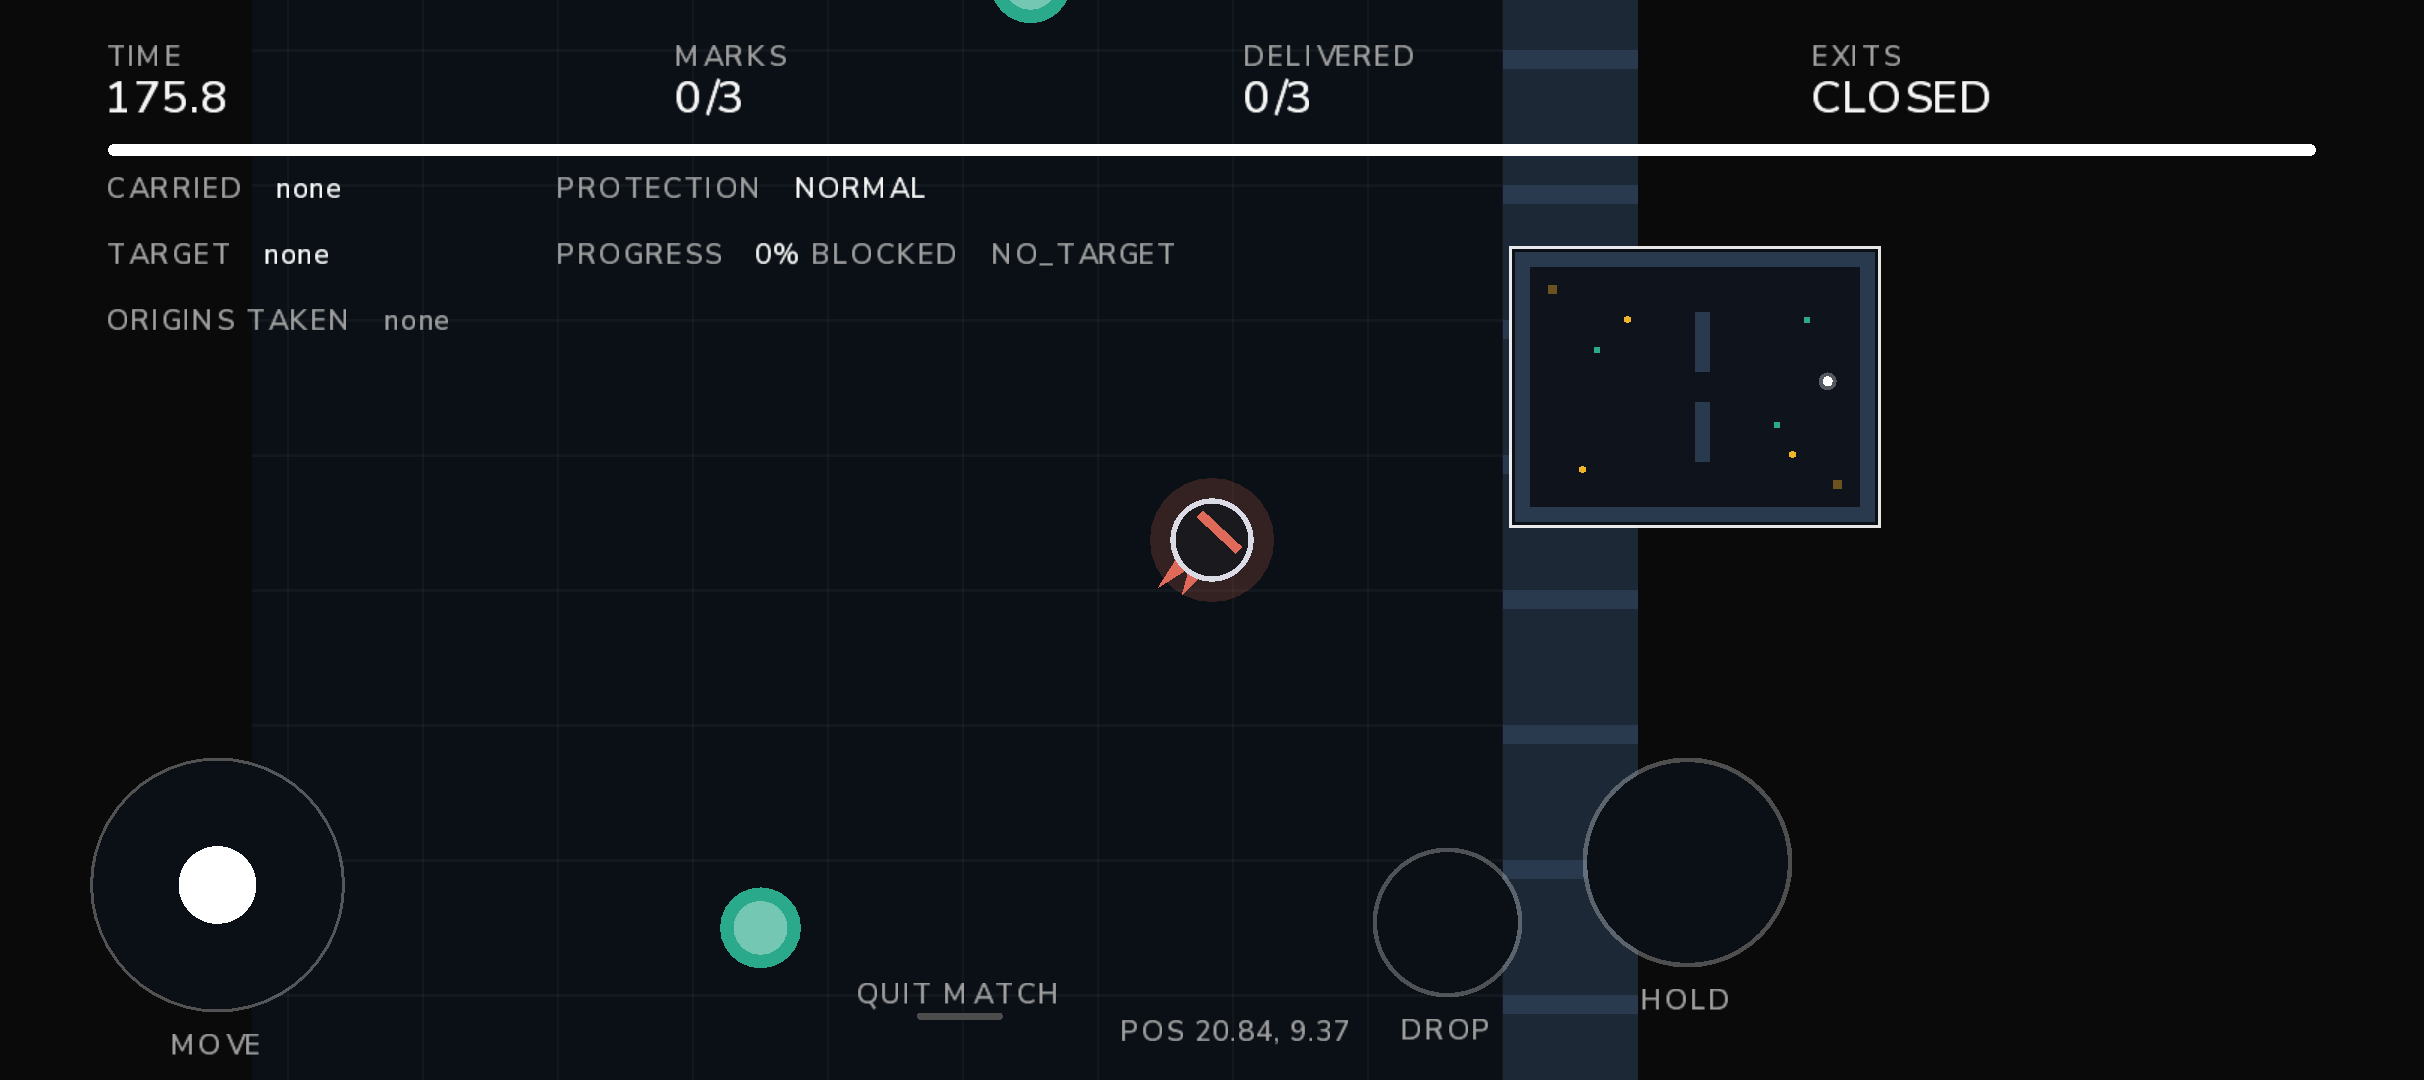
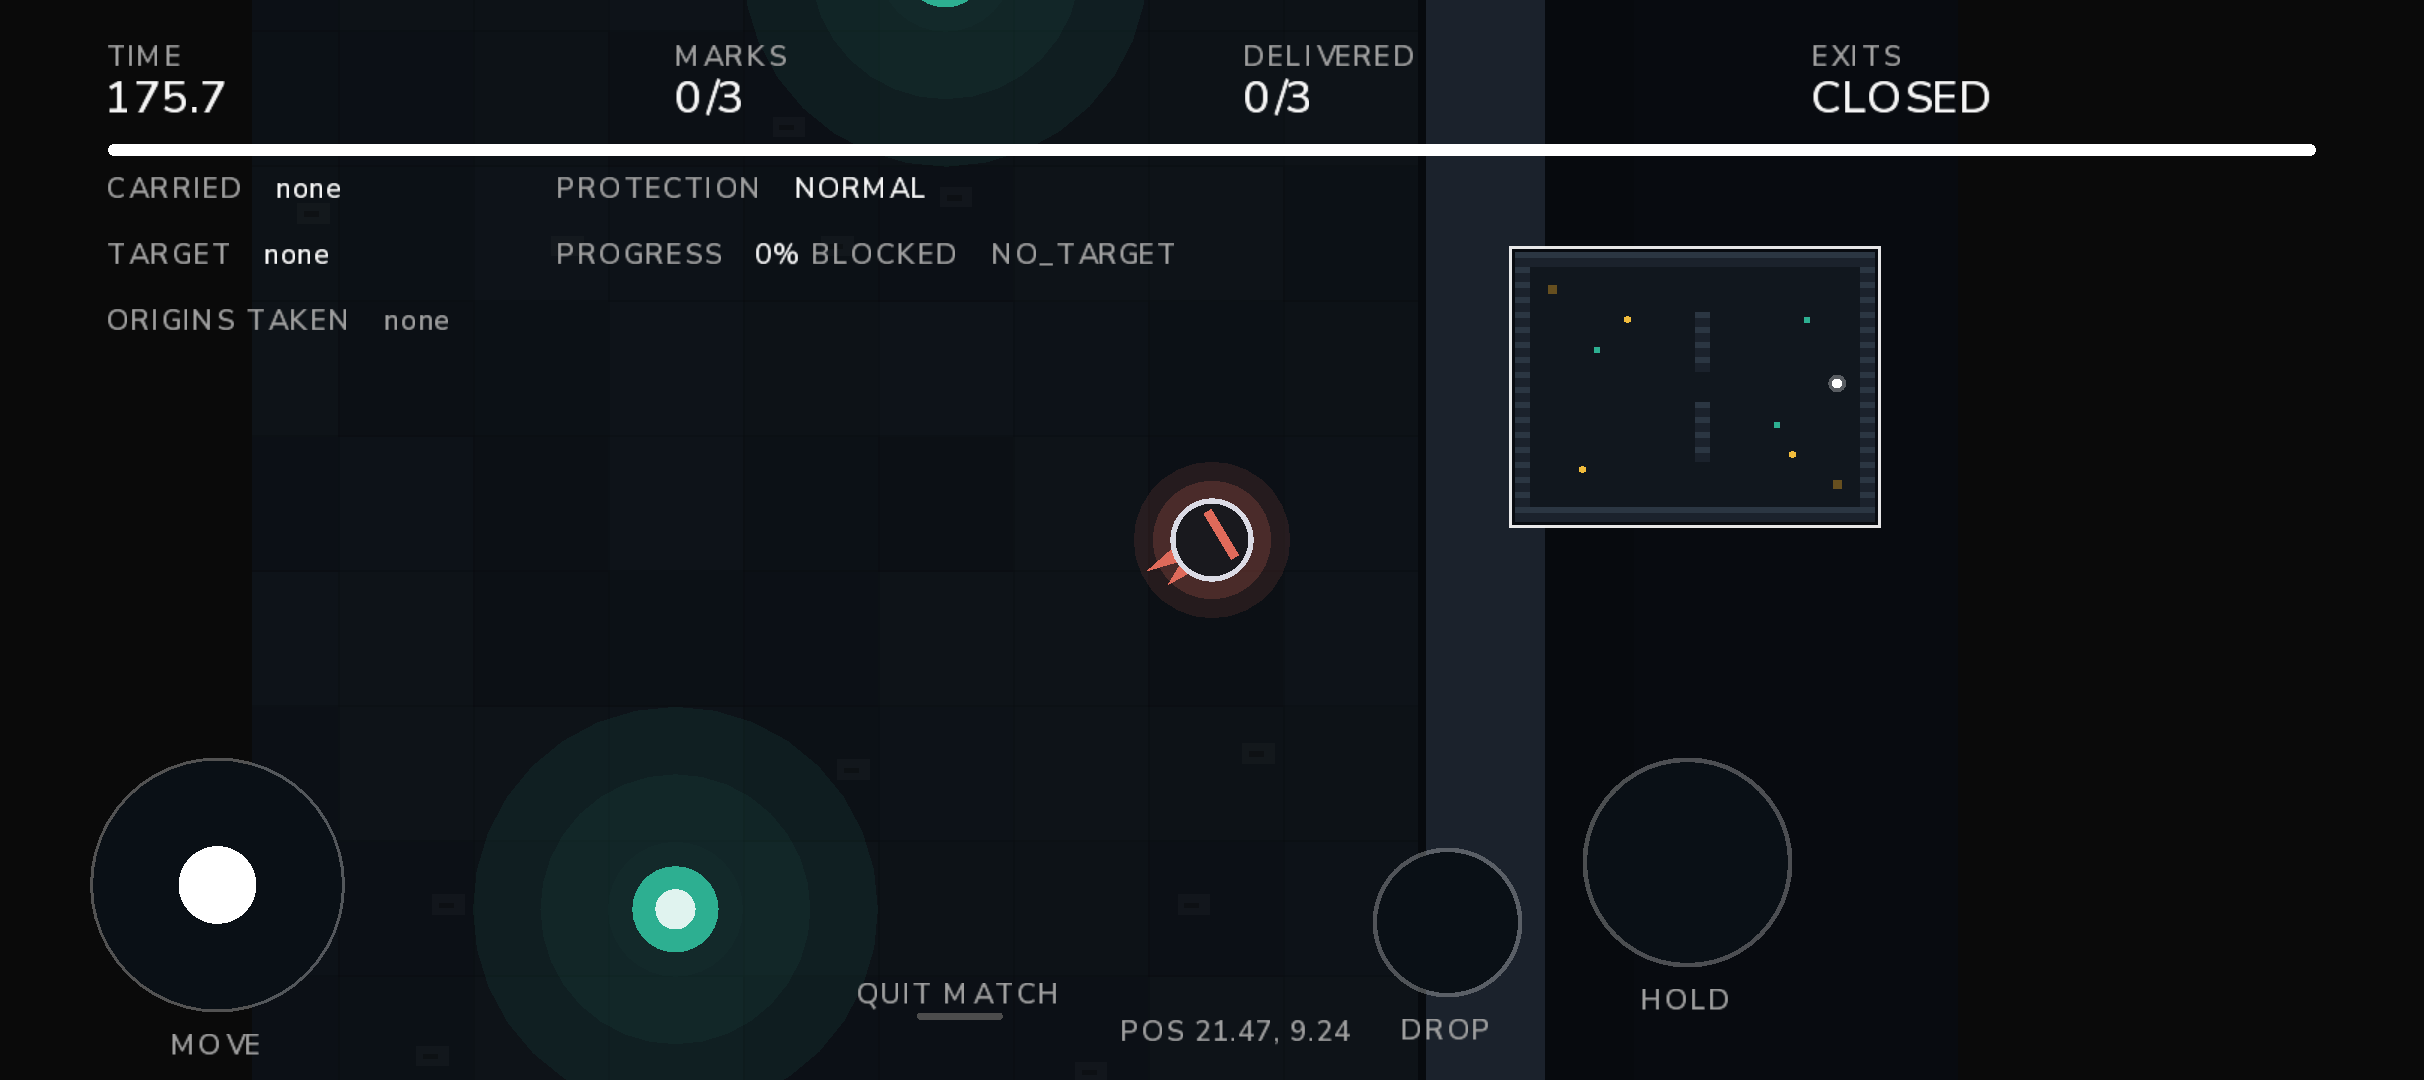
art: room-quality pass on the match map (tiles, wall depth, light pools)

diff --git a/client-core/src/main/java/com/lightchase/client/WorldRenderer.java b/client-core/src/main/java/com/lightchase/client/WorldRenderer.java
@@ -11,6 +11,9 @@ import com.lightchase.contracts.*;
 import com.lightchase.contracts.geometry.WorldGeometry;
 import com.lightchase.data.DataFiles;
 
+import java.util.HashSet;
+import java.util.Set;
+
 /**
  * Draws the match world: map, wall-clipped police beam, actors, and the minimap.
  *
@@ -18,9 +21,11 @@ import com.lightchase.data.DataFiles;
  * is computed with {@link WorldGeometry#segmentBlocked} so the drawn cone and the server's judgement
  * come from one implementation.
  *
- * <p>Art direction is deliberately separate from the menu: the menu is pure black and white, while
- * the match is a dark room seen from above - deep blue floor, slate walls, one warm beam, and
- * role-coloured actors. Both share the same restraint: no gradients, no shadows, few colours.
+ * <p><b>Art direction.</b> The menu is flat black and white; the match is a lit room seen from
+ * above. What makes a top-down tile room read well is not texture detail but four things, all of
+ * which are geometry here: per-tile value variation so a large floor is never one flat slab; a wall
+ * with a top face and a side face; a dark outline wherever geometry meets floor; and a light source
+ * that gives the eye somewhere to rest. Everything below is procedural.
  */
 final class WorldRenderer {
 
@@ -31,20 +36,20 @@ final class WorldRenderer {
     static final float MM_Y = 372f;
     static final float MM_SCALE = 10f;
 
-    // Match palette.
-    private static final Color FLOOR = new Color(0.043f, 0.063f, 0.090f, 1f);   // #0B1017
-    private static final Color GRID = new Color(1f, 1f, 1f, 0.035f);
-    private static final Color WALL = new Color(0.110f, 0.157f, 0.212f, 1f);   // #1C2836
-    private static final Color WALL_EDGE = new Color(0.165f, 0.231f, 0.306f, 1f);
-    private static final Color DROP = new Color(0.165f, 0.663f, 0.549f, 1f);   // teal
-    private static final Color EXIT_SHUT = new Color(0.420f, 0.325f, 0.125f, 1f);
-    private static final Color EXIT_OPEN = new Color(0.941f, 0.706f, 0.161f, 1f);
-    private static final Color MATERIAL = new Color(0.941f, 0.706f, 0.161f, 1f);
+    // ---- palette -------------------------------------------------------------------------
+    private static final Color FLOOR = new Color(0.055f, 0.075f, 0.098f, 1f);   // #0E1319
+    private static final Color FLOOR_EDGE = new Color(0.035f, 0.047f, 0.063f, 1f);
+    private static final Color WALL_TOP = new Color(0.169f, 0.212f, 0.259f, 1f);   // #2B3642
+    private static final Color WALL_FACE = new Color(0.106f, 0.137f, 0.173f, 1f);  // #1B232C
+    private static final Color WALL_LINE = new Color(0.031f, 0.043f, 0.055f, 1f);
+    private static final Color DROP = new Color(0.180f, 0.690f, 0.569f, 1f);
+    private static final Color EXIT_SHUT = new Color(0.400f, 0.310f, 0.125f, 1f);
+    private static final Color EXIT_OPEN = new Color(0.965f, 0.729f, 0.184f, 1f);
+    private static final Color MATERIAL = new Color(0.949f, 0.741f, 0.239f, 1f);
     private static final Color BEAM = new Color(1f, 0.925f, 0.741f, 1f);
     private static final Color SELF_POLICE = new Color(0.435f, 0.718f, 0.910f, 1f);
     private static final Color SELF_THIEF = new Color(0.878f, 0.416f, 0.353f, 1f);
     private static final Color FOE = new Color(0.882f, 0.278f, 0.278f, 1f);
-    private static final Color INK = new Color(0.020f, 0.031f, 0.043f, 1f);
 
     private final ShapeRenderer shapes;
     private final OrthographicCamera worldCamera;
@@ -54,6 +59,7 @@ final class WorldRenderer {
     private final DataFiles data;
     private final float[] beamX = new float[BEAM_RAYS];
     private final float[] beamY = new float[BEAM_RAYS];
+    private final Set<Long> wallCells = new HashSet<Long>();
 
     WorldRenderer(ShapeRenderer shapes, OrthographicCamera worldCamera, OrthographicCamera uiCamera,
                   FitViewport worldViewport, Viewport uiViewport, DataFiles data) {
@@ -63,6 +69,15 @@ final class WorldRenderer {
         this.worldViewport = worldViewport;
         this.uiViewport = uiViewport;
         this.data = data;
+        for (WallCell wall : data.map.walls) wallCells.add(key(wall.col, wall.row));
+    }
+
+    private static long key(int col, int row) {
+        return ((long) col << 32) ^ (row & 0xffffffffL);
+    }
+
+    private boolean isWall(int col, int row) {
+        return wallCells.contains(key(col, row));
     }
 
     void renderWorld(PlayerView view, ViewInterpolator interpolator) {
@@ -77,7 +92,10 @@ final class WorldRenderer {
         shapes.setProjectionMatrix(worldCamera.combined);
         shapes.begin(ShapeRenderer.ShapeType.Filled);
 
+        drawFrame();
         drawFloor();
+        drawFloorDecals();
+        drawLightPools(view);
         drawWalls();
         if (view != null) drawBeam(view);
         drawPoints(view);
@@ -87,55 +105,171 @@ final class WorldRenderer {
         Gdx.gl.glDisable(GL20.GL_BLEND);
     }
 
-    /** Floor plus a one-unit grid; the grid is what makes movement readable. */
-    private void drawFloor() {
+    // ---- environment ---------------------------------------------------------------------
+
+    /** Outer dark band: the room reads as carved out of the void rather than floating. */
+    private void drawFrame() {
+        float w = data.map.width;
+        float h = data.map.height;
+        // A wide, slightly lighter skirt: the room is a lit floor inside a dim building, not a
+        // rectangle floating in pure black (which is what the menu background looks like).
+        shapes.setColor(0.045f, 0.055f, 0.068f, 1f);
+        shapes.rect(-60f, -60f, w + 120f, h + 120f);
+        shapes.setColor(FLOOR_EDGE);
+        shapes.rect(-4f, -4f, w + 8f, h + 8f);
+        shapes.setColor(WALL_LINE);
+        shapes.rect(-0.9f, -0.9f, w + 1.8f, h + 1.8f);
+        shapes.setColor(1f, 1f, 1f, 0.05f);
+        shapes.rect(-0.55f, -0.55f, w + 1.1f, h + 1.1f);
         shapes.setColor(FLOOR);
-        shapes.rect(0, 0, data.map.width, data.map.height);
-        shapes.setColor(GRID);
-        for (int x = 1; x < data.map.width; x++) shapes.rect(x - 0.01f, 0, 0.02f, data.map.height);
-        for (int y = 1; y < data.map.height; y++) shapes.rect(0, y - 0.01f, data.map.width, 0.02f);
+        shapes.rect(0f, 0f, w, h);
     }
 
-    private void drawWalls() {
-        shapes.setColor(WALL);
-        for (WallCell wall : data.map.walls) shapes.rect(wall.col, wall.row, 1f, 1f);
-        // A lighter cap on the side that faces the camera: the flat top-down view would otherwise
-        // read as one solid mass.
-        shapes.setColor(WALL_EDGE);
-        for (WallCell wall : data.map.walls) shapes.rect(wall.col, wall.row + 0.86f, 1f, 0.14f);
+    /** One tile per world unit, each a hair different: a large floor is never one flat colour. */
+    private void drawFloor() {
+        for (int x = 0; x < data.map.width; x++) {
+            for (int y = 0; y < data.map.height; y++) {
+                if (isWall(x, y)) continue;
+                int n = hash(x, y);
+                float v = 0.965f + (n % 5) * 0.014f;
+                shapes.setColor(FLOOR.r * v, FLOOR.g * v, FLOOR.b * v, 1f);
+                shapes.rect(x, y, 1f, 1f);
+                // A bevel, not a grid: light on the top-left edge, shadow on the bottom-right.
+                shapes.setColor(1f, 1f, 1f, 0.035f);
+                shapes.rect(x + 0.02f, y + 0.975f, 0.96f, 0.025f);
+                shapes.rect(x + 0.02f, y + 0.02f, 0.025f, 0.955f);
+                shapes.setColor(0f, 0f, 0f, 0.30f);
+                shapes.rect(x + 0.02f, y, 0.96f, 0.022f);
+                shapes.rect(x + 0.955f, y, 0.025f, 1f);
+            }
+        }
+        // A darker ring just inside the walls, the way a painted room has a border band.
+        shapes.setColor(0f, 0f, 0f, 0.20f);
+        float w = data.map.width;
+        float h = data.map.height;
+        shapes.rect(0f, 0f, w, 0.35f);
+        shapes.rect(0f, h - 0.35f, w, 0.35f);
+        shapes.rect(0f, 0f, 0.35f, h);
+        shapes.rect(w - 0.35f, 0f, 0.35f, h);
     }
+
+    /** Debris and worn patches: sparse, deterministic, always under everything else. */
+    private void drawFloorDecals() {
+        for (int x = 0; x < data.map.width; x++) {
+            for (int y = 0; y < data.map.height; y++) {
+                if (isWall(x, y)) continue;
+                int n = hash(x + 71, y + 13);
+                if (n % 9 != 0) continue;
+                float fx = x + 0.22f + (n % 5) * 0.12f;
+                float fy = y + 0.22f + ((n >> 3) % 5) * 0.12f;
+                shapes.setColor(1f, 1f, 1f, 0.028f);
+                shapes.rect(fx, fy, 0.24f, 0.15f);
+                shapes.setColor(0f, 0f, 0f, 0.28f);
+                shapes.rect(fx + 0.05f, fy + 0.05f, 0.11f, 0.04f);
+            }
+        }
+    }
+
+    /** Warm pools around live exits, cold ones around drop points: the room needs light sources. */
+    private void drawLightPools(PlayerView view) {
+        boolean open = view != null && view.exitsOpen;
+        for (MapPoint point : data.map.exits) {
+            float x = (float) point.x;
+            float y = (float) point.y;
+            for (int ring = 2; ring >= 1; ring--) {
+                shapes.setColor(EXIT_OPEN.r, EXIT_OPEN.g, EXIT_OPEN.b,
+                        (open ? 0.055f : 0.016f) * ring);
+                shapes.circle(x, y, 0.50f * ring, 32);
+            }
+        }
+        for (MapPoint point : data.map.deliveries) {
+            float x = (float) point.x;
+            float y = (float) point.y;
+            for (int ring = 2; ring >= 1; ring--) {
+                shapes.setColor(DROP.r, DROP.g, DROP.b, 0.030f * ring);
+                shapes.circle(x, y, 0.46f * ring, 32);
+            }
+        }
+    }
+
+    /**
+     * Walls as blocks with a top face, a face, and an outline on the edges that touch floor.
+     * That is what gives a flat plan its thickness.
+     */
+    private void drawWalls() {
+        for (WallCell wall : data.map.walls) {
+            float x = wall.col;
+            float y = wall.row;
+            shapes.setColor(WALL_FACE);
+            shapes.rect(x, y, 1f, 1f);
+            // The lit cap belongs to the top edge of a wall mass, not to every block, otherwise a
+            // vertical wall reads as a stack of bars.
+            if (!isWall(wall.col, wall.row + 1)) {
+                shapes.setColor(WALL_TOP);
+                shapes.rect(x, y + 0.66f, 1f, 0.34f);
+                shapes.setColor(0f, 0f, 0f, 0.22f);
+                shapes.rect(x, y + 0.60f, 1f, 0.06f);
+            }
+        }
+        // Outlines after the fills, so neighbouring blocks do not paint over each other's edge.
+        shapes.setColor(WALL_LINE);
+        for (WallCell wall : data.map.walls) {
+            float x = wall.col;
+            float y = wall.row;
+            if (!isWall(wall.col, wall.row + 1)) shapes.rect(x, y + 0.94f, 1f, 0.06f);
+            if (!isWall(wall.col, wall.row - 1)) shapes.rect(x, y, 1f, 0.06f);
+            if (!isWall(wall.col - 1, wall.row)) shapes.rect(x, y, 0.06f, 1f);
+            if (!isWall(wall.col + 1, wall.row)) shapes.rect(x + 0.94f, y, 0.06f, 1f);
+        }
+        // A lit lip where a block's face meets the floor: cheap depth, reads as a chamfer.
+        shapes.setColor(1f, 1f, 1f, 0.07f);
+        for (WallCell wall : data.map.walls) {
+            float x = wall.col;
+            float y = wall.row;
+            if (!isWall(wall.col, wall.row - 1)) shapes.rect(x, y, 1f, 0.05f);
+        }
+    }
+
+    /** Stable per-cell noise; the floor must look the same every frame. */
+    private static int hash(int x, int y) {
+        int h = x * 374761393 + y * 668265263;
+        h = (h ^ (h >> 13)) * 1274126177;
+        return Math.abs(h ^ (h >> 16));
+    }
+
+    // ---- points and actors ---------------------------------------------------------------
 
     private void drawPoints(PlayerView view) {
-        // Drop points: a teal disc with a quiet outer ring.
-        shapes.setColor(DROP);
         for (MapPoint point : data.map.deliveries) {
-            shapes.circle((float) point.x, (float) point.y, 0.30f, 24);
+            float x = (float) point.x;
+            float y = (float) point.y;
+            shapes.setColor(DROP);
+            shapes.circle(x, y, 0.32f, 28);
+            shapes.setColor(1f, 1f, 1f, 0.85f);
+            shapes.circle(x, y, 0.15f, 20);
         }
-        shapes.setColor(1f, 1f, 1f, 0.35f);
-        for (MapPoint point : data.map.deliveries) {
-            shapes.circle((float) point.x, (float) point.y, 0.20f, 24);
-        }
-        // Exits: shut ones stay muted, open ones glow.
         boolean open = view != null && view.exitsOpen;
-        shapes.setColor(open ? EXIT_OPEN : EXIT_SHUT);
         for (MapPoint point : data.map.exits) {
-            shapes.rect((float) point.x - 0.32f, (float) point.y - 0.32f, 0.64f, 0.64f);
-        }
-        if (open) {
-            shapes.setColor(1f, 0.85f, 0.45f, 0.30f);
-            for (MapPoint point : data.map.exits) {
-                shapes.circle((float) point.x, (float) point.y, 0.62f, 24);
-            }
+            float x = (float) point.x;
+            float y = (float) point.y;
+            shapes.setColor(open ? EXIT_OPEN : EXIT_SHUT);
+            shapes.rect(x - 0.34f, y - 0.34f, 0.68f, 0.68f);
+            shapes.setColor(open ? Color.WHITE : new Color(0.62f, 0.50f, 0.24f, 1f));
+            shapes.rect(x - 0.34f, y + 0.22f, 0.68f, 0.12f);
         }
     }
 
     private void drawActors(PlayerView view, ViewInterpolator interpolator) {
         if (view.thief != null) {
             for (GroundMaterial material : view.thief.groundMaterials) {
-                shapes.setColor(1f, 1f, 1f, 0.18f);
-                shapes.circle((float) material.x, (float) material.y, 0.24f, 16);
+                float x = (float) material.x;
+                float y = (float) material.y;
+                shapes.setColor(1f, 1f, 1f, 0.16f);
+                shapes.circle(x, y, 0.26f, 16);
                 shapes.setColor(MATERIAL);
-                shapes.circle((float) material.x, (float) material.y, 0.16f, 16);
+                shapes.circle(x, y, 0.17f, 16);
+                shapes.setColor(1f, 1f, 1f, 0.75f);
+                shapes.circle(x, y, 0.07f, 12);
             }
         }
         if (interpolator.opponentVisible()) {
@@ -165,8 +299,10 @@ final class WorldRenderer {
         float py = c;
         Color tint = role == Role.THIEF ? SELF_THIEF : SELF_POLICE;
 
-        shapes.setColor(tint.r, tint.g, tint.b, halo);
-        shapes.circle(x, y, 0.46f, 28);
+        shapes.setColor(tint.r, tint.g, tint.b, halo * 0.35f);
+        shapes.circle(x, y, 0.54f, 28);
+        shapes.setColor(tint.r, tint.g, tint.b, halo * 0.75f);
+        shapes.circle(x, y, 0.42f, 28);
 
         if (role == Role.POLICE) {
             // Brim: a wedge in front of the cap, the menu icon's most recognisable shape.
@@ -203,6 +339,8 @@ final class WorldRenderer {
         }
     }
 
+    // ---- beam -----------------------------------------------------------------------------
+
     /** The police cone: three nested passes give it depth without a real gradient. */
     private void drawBeam(PlayerView view) {
         if (view.role != Role.POLICE) return;
@@ -215,9 +353,9 @@ final class WorldRenderer {
         float[] innerX = new float[BEAM_RAYS];
         float[] innerY = new float[BEAM_RAYS];
 
-        for (int pass = 0; pass < 3; pass++) {
-            double shrink = 1.0 - pass * 0.22;
-            double widthScale = 1.0 - pass * 0.18;
+        for (int pass = 0; pass < 2; pass++) {
+            double shrink = 1.0 - pass * 0.45;
+            double widthScale = 1.0;
             for (int i = 0; i < BEAM_RAYS; i++) {
                 double angle = heading - half * widthScale
                         + (2.0 * half * widthScale) * i / (BEAM_RAYS - 1);
@@ -231,7 +369,7 @@ final class WorldRenderer {
                     innerY[i] = beamY[i];
                 }
             }
-            shapes.setColor(BEAM.r, BEAM.g, BEAM.b, 0.075f);
+            shapes.setColor(BEAM.r, BEAM.g, BEAM.b, pass == 0 ? 0.085f : 0.075f);
             for (int i = 0; i < BEAM_RAYS - 1; i++) {
                 shapes.triangle((float) cx, (float) cy, beamX[i], beamY[i], beamX[i + 1], beamY[i + 1]);
             }
@@ -262,6 +400,8 @@ final class WorldRenderer {
         return lo;
     }
 
+    // ---- minimap --------------------------------------------------------------------------
+
     /** Minimap. Ground materials appear only when the thief view carries them (contract §7). */
     void renderMinimap(PlayerView view, ViewInterpolator interpolator) {
         uiViewport.apply();
@@ -271,16 +411,21 @@ final class WorldRenderer {
         float w = data.map.width * MM_SCALE;
         float h = data.map.height * MM_SCALE;
 
-        shapes.setColor(1f, 1f, 1f, 0.90f);                       // outer border
+        shapes.setColor(1f, 1f, 1f, 0.90f);
         shapes.rect(MM_X - 4f, MM_Y - 4f, w + 8f, h + 8f);
-        shapes.setColor(FLOOR);
+        shapes.setColor(FLOOR_EDGE);
         shapes.rect(MM_X - 2f, MM_Y - 2f, w + 4f, h + 4f);
-        shapes.setColor(0.055f, 0.078f, 0.110f, 1f);
+        shapes.setColor(0.070f, 0.092f, 0.118f, 1f);
         shapes.rect(MM_X, MM_Y, w, h);
 
-        shapes.setColor(WALL_EDGE);
+        shapes.setColor(WALL_FACE);
         for (WallCell wall : data.map.walls) {
             shapes.rect(MM_X + wall.col * MM_SCALE, MM_Y + wall.row * MM_SCALE, MM_SCALE, MM_SCALE);
+        }
+        shapes.setColor(WALL_TOP);
+        for (WallCell wall : data.map.walls) {
+            shapes.rect(MM_X + wall.col * MM_SCALE, MM_Y + wall.row * MM_SCALE + MM_SCALE * 0.6f,
+                    MM_SCALE, MM_SCALE * 0.4f);
         }
         shapes.setColor(DROP);
         for (MapPoint point : data.map.deliveries) {
